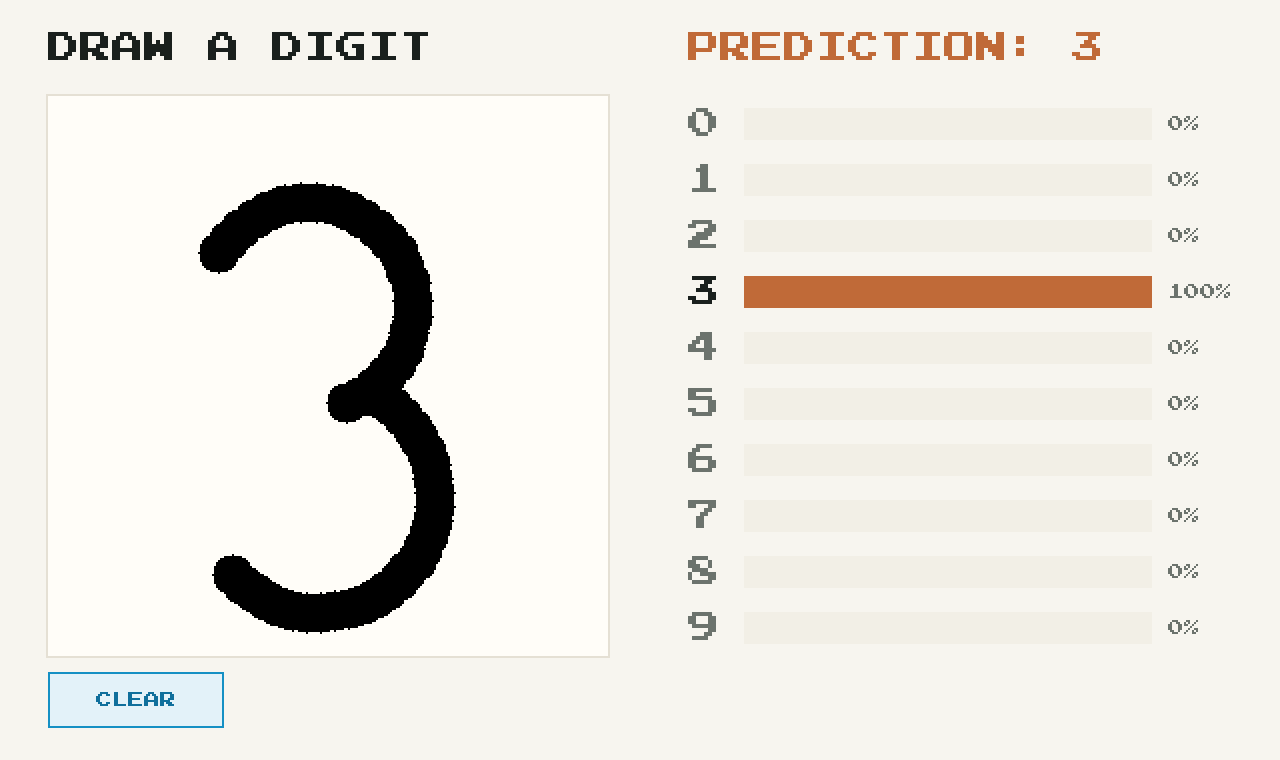
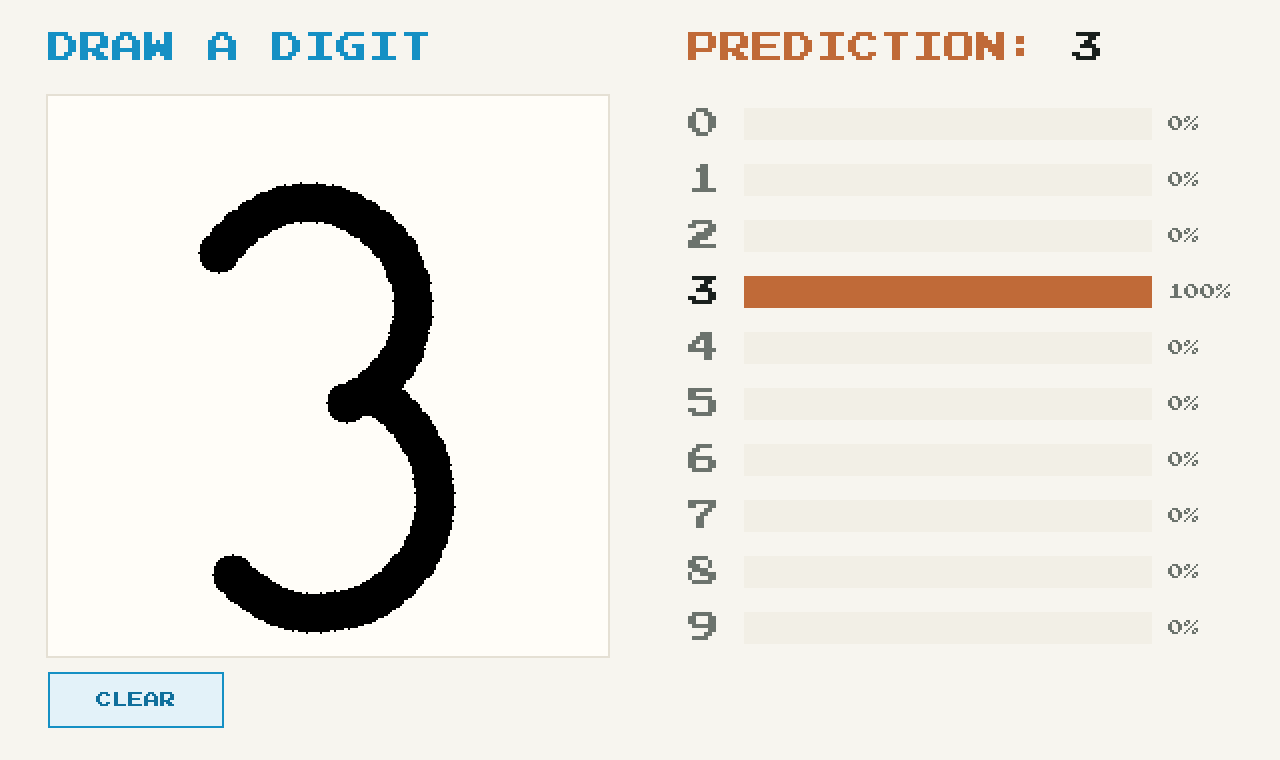
Start the MNIST demo on scroll and split the headline colors
The demo takes no keyboard and plays no sound, so the landing page can
start it without a click — an IntersectionObserver kicks it off once
the card is scrolled near, keeping the wasm and weight downloads off
the initial page load. The play-button handler splits into
startPosterDemo() so the click path (Rocci Bird) and the scroll path
share the iframe swap.

In the demo itself, DRAW A DIGIT turns brand blue and the predicted
digit prints in the text color, leaving only the PREDICTION label in
accent orange; the poster is regenerated to match.

Changed region(s): [[0.0312, 0.0303, 0.3438, 0.0908], [0.8438, 0.0303, 0.875, 0.0908]]

diff --git a/site/index.html b/site/index.html
@@ -90,6 +90,8 @@
     /* The MNIST demo's own 640x380 framebuffer, so its poster and iframe
        share the box the same way the square one does for Rocci Bird. */
     .poster-wide { aspect-ratio: 32 / 19; max-width: 560px; }
+    /* Starts on its own (scroll into view), so nothing here to click. */
+    .poster-auto { cursor: default; }
     /* Positioned + z-index so the poster paints over the game-frame iframe
        (see below) while the game is still loading, instead of the iframe's
        own black background winning by DOM order. */
@@ -291,9 +293,8 @@ culebra build hello.cul -o hello &amp;&amp; ./hello  # AOT: compile once, ship t
         </div>
         <div class="showcase-card">
           <h3>A neural network</h3>
-          <div class="poster poster-wide" id="mnist-poster">
+          <div class="poster poster-wide poster-auto" id="mnist-poster">
             <img src="./assets/mnist-poster.png" alt="MNIST digit recognition — draw a digit and a culebra-trained MLP scores it" width="1280" height="760">
-            <button id="play-mnist" class="play-btn" type="button" aria-label="Try MNIST digit recognition">▷</button>
           </div>
           <p class="fine-print">Handwritten-digit recognition, end to end in
             culebra: a small MLP trained with the built-in
@@ -303,7 +304,7 @@ culebra build hello.cul -o hello &amp;&amp; ./hello  # AOT: compile once, ship t
             the pad and the probability chart drawn with
             <a href="https://github.com/yhirose/culebra/blob/master/docs/stdlib.md#26-canvas">Canvas</a> —
             <a href="https://github.com/yhirose/culebra/blob/master/examples/tensor/mnist/mnist.cul">source</a>.
-            Click, then draw a digit.</p>
+            Draw a digit.</p>
         </div>
         <div class="showcase-card">
           <h3>A C++ host</h3>
@@ -410,31 +411,39 @@ culebra build hello.cul -o hello &amp;&amp; ./hello  # AOT: compile once, ship t
     // on GitHub Pages' CDN, which caps the request line at a few KB. Naming
     // the entry keeps the URL short and the Playground fetches its own copy,
     // so this still can't drift from what ships in examples/games/rocci-bird.cul.
-    function wirePosterDemo(posterId, btnId, exampleTitle, frameTitle) {
-      document.getElementById(btnId).addEventListener("click", function () {
-        var poster = document.getElementById(posterId);
-        // One shot — gone immediately so a second click can't stack another
-        // iframe underneath while the first is still loading.
-        document.getElementById(btnId).remove();
+    function startPosterDemo(posterId, exampleTitle, frameTitle) {
+      var poster = document.getElementById(posterId);
+      // One shot — a second call must not stack another iframe underneath
+      // while the first is still loading.
+      if (poster.querySelector("iframe")) return;
 
-        var frame = document.createElement("iframe");
-        frame.className = "game-frame";
-        frame.title = frameTitle;
-        frame.src = "./playground/?embed=1&view=canvas&run=1&example=" + encodeURIComponent(exampleTitle);
-        // Stays hidden behind the poster (z-index) until the embedded page
-        // says its first frame is actually on screen.
-        window.addEventListener("message", function onFirstFrame(e) {
-          if (e.source !== frame.contentWindow) return;
-          if (!e.data || e.data.type !== "culebra-canvas-first-frame") return;
-          window.removeEventListener("message", onFirstFrame);
-          poster.querySelector("img").remove();
-          poster.style.cursor = "default";
-        });
-        poster.appendChild(frame);
+      var frame = document.createElement("iframe");
+      frame.className = "game-frame";
+      frame.title = frameTitle;
+      frame.src = "./playground/?embed=1&view=canvas&run=1&example=" + encodeURIComponent(exampleTitle);
+      // Stays hidden behind the poster (z-index) until the embedded page
+      // says its first frame is actually on screen.
+      window.addEventListener("message", function onFirstFrame(e) {
+        if (e.source !== frame.contentWindow) return;
+        if (!e.data || e.data.type !== "culebra-canvas-first-frame") return;
+        window.removeEventListener("message", onFirstFrame);
+        poster.querySelector("img").remove();
+        poster.style.cursor = "default";
       });
+      poster.appendChild(frame);
     }
-    wirePosterDemo("rocci-poster", "play-rocci", "Canvas: Rocci Bird", "Rocci Bird — culebra Playground");
-    wirePosterDemo("mnist-poster", "play-mnist", "Canvas: MNIST digits", "MNIST digits — culebra Playground");
+    document.getElementById("play-rocci").addEventListener("click", function () {
+      this.remove();
+      startPosterDemo("rocci-poster", "Canvas: Rocci Bird", "Rocci Bird — culebra Playground");
+    });
+    // The MNIST demo takes no keyboard and plays no sound, so it starts by
+    // itself — but only once scrolled near, so merely opening the page never
+    // pays for the wasm interpreter and the weight CSVs.
+    new IntersectionObserver(function (entries, observer) {
+      if (!entries.some(function (e) { return e.isIntersecting; })) return;
+      observer.disconnect();
+      startPosterDemo("mnist-poster", "Canvas: MNIST digits", "MNIST digits — culebra Playground");
+    }, { rootMargin: "200px" }).observe(document.getElementById("mnist-poster"));
   </script>
 </body>
 </html>
